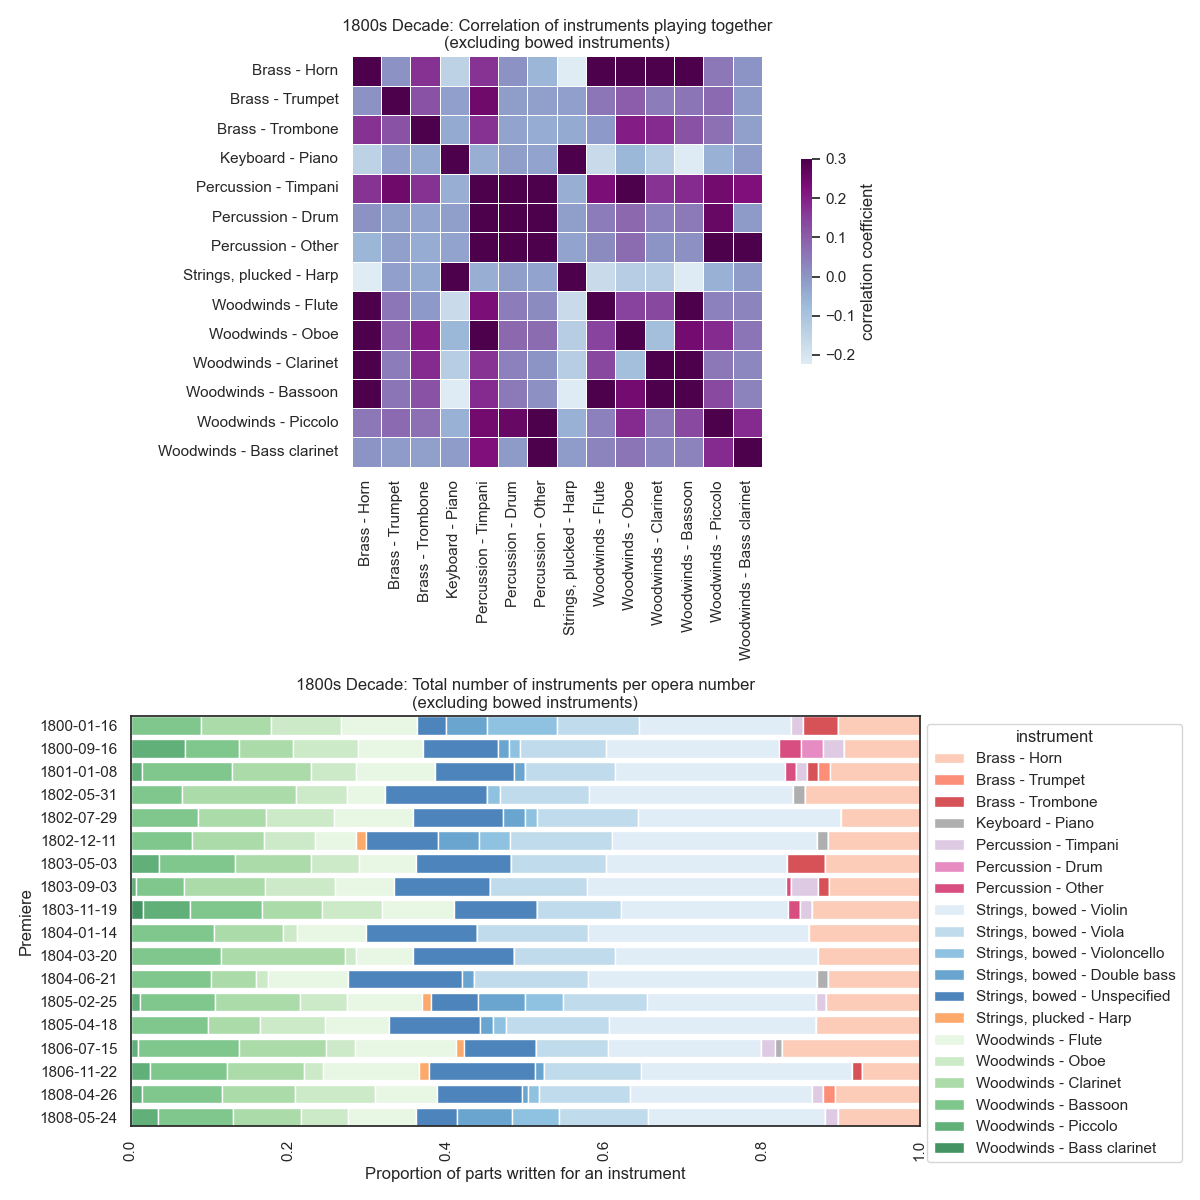
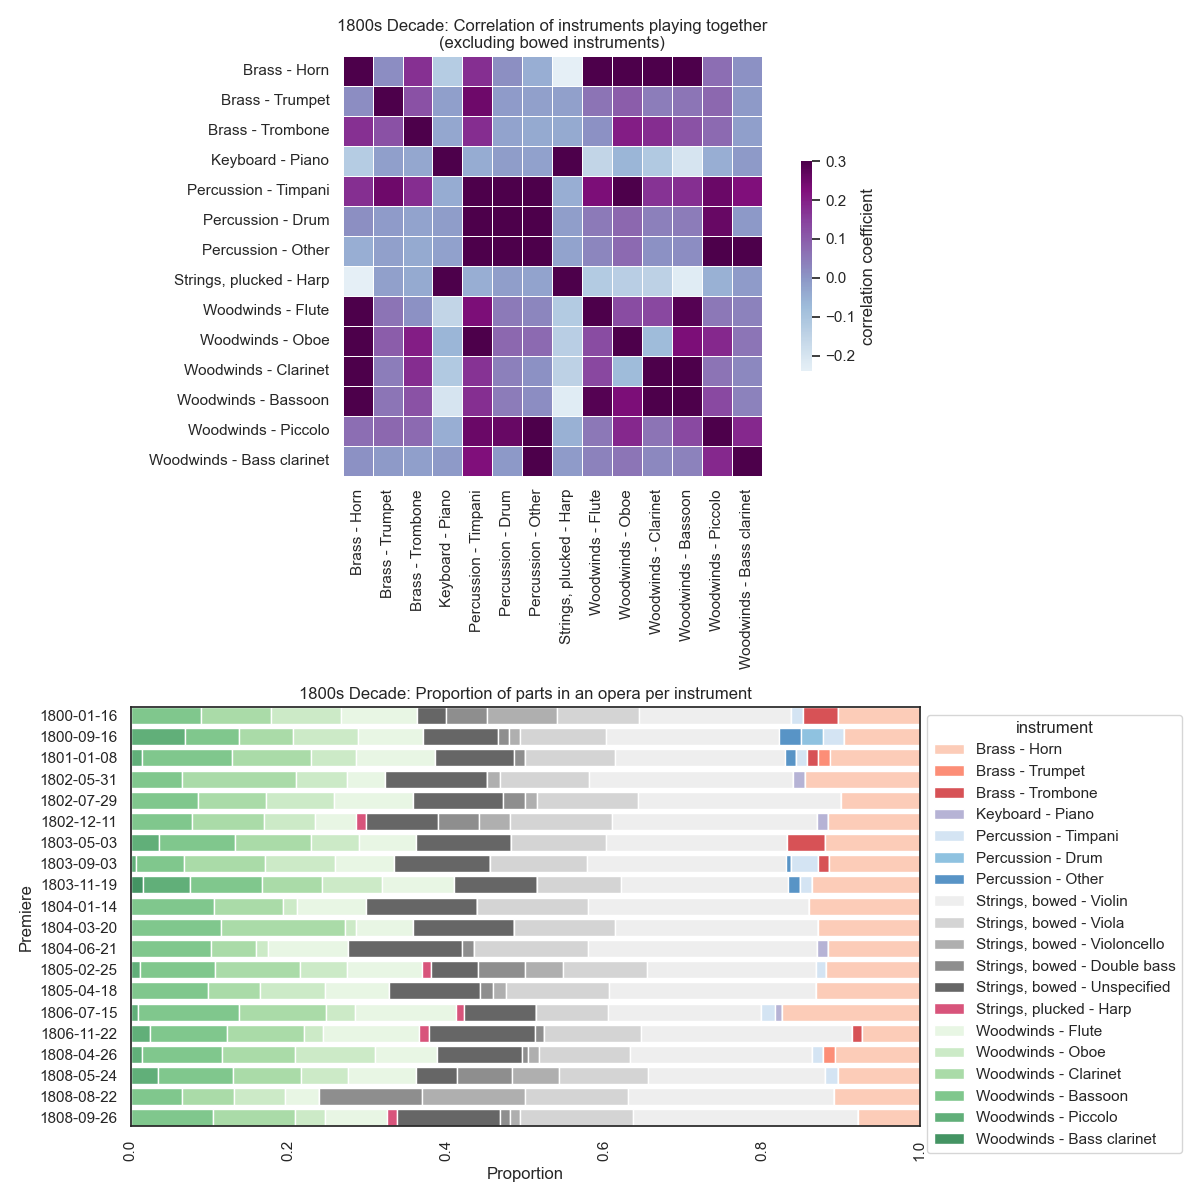
change colors

Changed region(s): [[0.0, 0.0, 0.9867, 0.9867], [0.6783, 0.1233, 0.74, 0.2775]]

diff --git a/doc-db/src/make_matrix.py b/doc-db/src/make_matrix.py
@@ -69,21 +69,25 @@ def parse_perfRes(instrument: etree.Element) -> dict:
 
 
 def parse_tree(fp: Path) -> dict:
-    tree = etree.parse(fp, parser=XMLParser())
+    try:
+        tree = etree.parse(fp, parser=XMLParser())
+    except Exception as e:
+        print(f"\n\n{fp}\n")
+        raise e
     opera_id = tree.xpath("//mei:identifier[@type='CharltonWild']", namespaces=NS)[
         0
     ].text.strip()
     year = fp.stem
     title = tree.xpath("//mei:source/mei:bibl/mei:title", namespaces=NS)[0].text.strip()
-    composer = get_composers(tree=tree)
-    librettist = get_librettists(tree=tree)
+    # composer = get_composers(tree=tree)
+    # librettist = get_librettists(tree=tree)
     works = get_works(tree=tree)
     data = {
         opera_id: {
             "year": year,
             "title": title,
-            "librettist": librettist,
-            "composer": composer,
+            # "librettist": librettist,
+            # "composer": composer,
             "works": works,
         }
     }
@@ -148,13 +152,14 @@ def make_palette_by_instrument_group():
         return {k: v for k, v in zip(labels, hex_list)}
 
     # Select labels from Color Brewer library
-    brass_kw = build_label_hex_pairs(prefix="b", color="Reds")
-    keys_kw = build_label_hex_pairs(prefix="k", color="Greys")
-    percussion_kw = build_label_hex_pairs(prefix="p", color="PuRd")
-    bowed_kw = build_label_hex_pairs(prefix="s", color="Blues")
-    plucked_kw = build_label_hex_pairs(prefix="t", color="Oranges")
     woodwinds_kw = build_label_hex_pairs(prefix="w", color="Greens")
-    voices_kw = build_label_hex_pairs(prefix="v", color="YlOrBr")
+    plucked_kw = build_label_hex_pairs(prefix="t", color="rocket")
+    bowed_kw = build_label_hex_pairs(prefix="s", color="Greys")
+    percussion_kw = build_label_hex_pairs(prefix="p", color="Blues")
+    keys_kw = build_label_hex_pairs(prefix="k", color="Purples")
+    brass_kw = build_label_hex_pairs(prefix="b", color="Reds")
+
+    # voices_kw = build_label_hex_pairs(prefix="v", color="YlOrBr")
 
     kw = brass_kw | keys_kw | percussion_kw | bowed_kw | plucked_kw | woodwinds_kw
     return kw
@@ -176,21 +181,56 @@ def plot_barchart(df: pd.DataFrame, ax, title_string: str):
     sn.move_legend(ax, "upper left", bbox_to_anchor=(1, 1))
     ax.set(
         ylabel="Premiere",
-        xlabel="Proportion of parts written for an instrument",
+        xlabel="Proportion",
         title=title_string,
     )
     return plot
 
 
-@click.command()
+@click.group()
+def cli():
+    pass
+
+
+@cli.command("barchart")
+@click.option(
+    "--directory",
+    "-d",
+    default="xml-files",
+    help="Path to the directory containing MEI-XML files",
+)
+def barchart_command(directory):
+    data = {}
+    for f in Path(directory).iterdir():
+        opera = parse_tree(f)
+        data.update(opera)
+
+    # Setting up the plot
+    sn.set_theme(style="white", palette="pastel")
+    fig, ax = plt.subplots(figsize=(12, 12))
+
+    # Plotting bar chart
+    parts = list_part_with_metadata(data=data)
+    bar_df = pd.DataFrame(parts)
+    title_string = "Proportion of parts in an opera per instrument"
+    plot_barchart(df=bar_df, ax=ax, title_string=title_string)
+    plt.xticks(rotation=90)
+
+    # Save figure
+    of = DIR.joinpath(f"allYears.png")
+    fig.tight_layout()
+    fig.savefig(of)
+
+
+@cli.command("decade")
 @click.option("--decade", "-y", required=True, help="First 3 digits of the decade")
 @click.option(
     "--directory",
     "-d",
-    required=True,
+    default="xml-files",
     help="Path to the directory containing MEI-XML files",
 )
-def main(decade, directory):
+def decade_command(decade, directory):
     decade_prefix = decade[:3]
     decade = f"{decade_prefix}0s"
     data = {}
@@ -213,7 +253,7 @@ def main(decade, directory):
     # Plotting bar chart
     parts = list_part_with_metadata(data=data)
     bar_df = pd.DataFrame(parts)
-    title_string = f"{decade} Decade: Total number of instruments per opera number\n(excluding bowed instruments)"
+    title_string = f"{decade} Decade: Proportion of parts in an opera per instrument"
     plot_barchart(df=bar_df, ax=ax2, title_string=title_string)
     plt.xticks(rotation=90)
 
@@ -224,4 +264,4 @@ def main(decade, directory):
 
 
 if __name__ == "__main__":
-    main()
+    cli()
